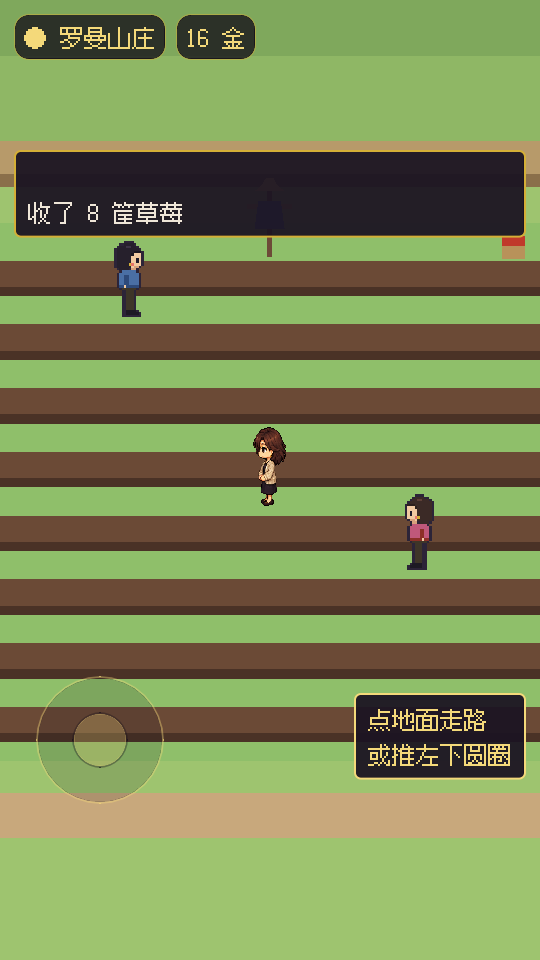
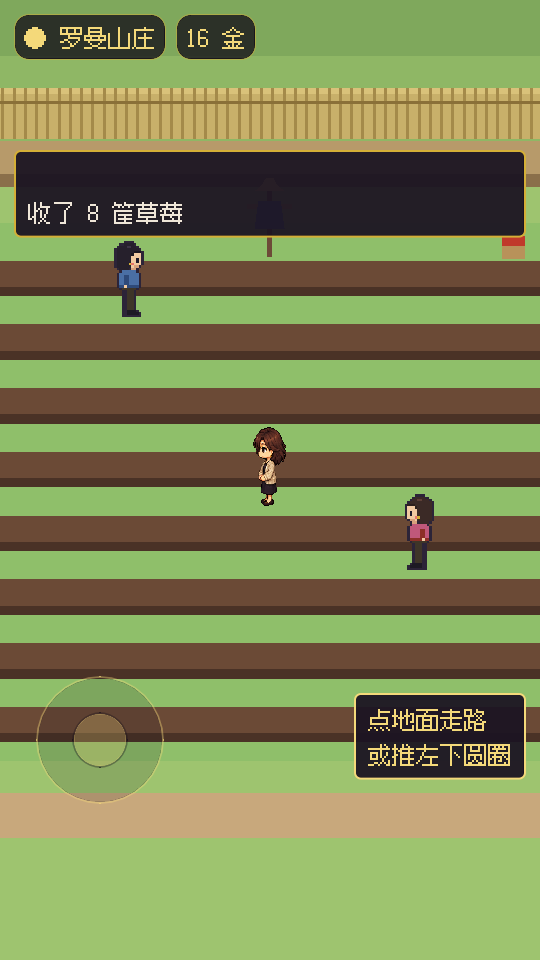
果园竹篱笆挪到能走地方北边界那条田埂（y 406～442）北边、着地线 404，不压路（01 E 10/3）；回执、截图、坐标跟着更新

Changed region(s): [[0.0, 0.0938, 1.0, 0.1562]]

diff --git a/godot/回执/展位-四块-1003/回执.md b/godot/回执/展位-四块-1003/回执.md
@@ -26,7 +26,7 @@
 - **农夫**：01 在 (250, 594)，02 在 (560, 866)，都站在垄沟里；03 在枇杷树下 (1110, 650)；04 在收购处摊子后面 (980, 1050)，摊子挡住下半身
 - **筐和篮**：收购处旁边一筐草莓 (1080, 1088)、一篮枇杷 (1110, 1088)；草莓地头 (660, 532)，枇杷地头 (1300, 562)
 - **稻草人 OR-P06** 在草莓地北头正中 (400, 530)
-- **竹篱笆 OR-W01**：沿北边 y 186～200 那条田埂摆，16 段，从 x 0 到 1536
+- **竹篱笆 OR-W01**：16 段，从 x 0 到 1536，着地线 404，紧贴能走地方北边界那条田埂（y 406～442）的北边，不压路，一看就知道走到头了（01 E 10/3 改）
 - **板车 OR-P07** 在篮子东边，x 1132～1228，着地线 1090
 
 ## 后厅三间（厨房归 GPT，没动；dress、lounge、mahjong、pot 四个点没动）
@@ -58,7 +58,7 @@
    - 钓鱼两组从 1100/1300 挪到 1170/1440，躲开垂柳 2、3 的树冠
    - 第二条长凳跟老长凳放在同一排，在 y 972
 4. **稻草人没放进草莓地中间**：垄是连着的，地里没有空地，放进垄沟会挡走路。现在放在地北头正中的地头上。
-5. **竹篱笆照「y 约 200」摆在 186～200 那条田埂上**。能走的地方的北边界是另一条田埂（y 406～442，原来的灰盒标签「田埂」就标在这条）。如果 01 说的是这条，告诉我，我把篱笆挪到 y 452。
+5. **竹篱笆**：先照「y 约 200」摆在远处那条田埂上，01 E 看过后改到能走地方北边界那条田埂（y 406～442）的北边，着地线 404。
 6. **礼服架没贴着西墙侧着放**：这个角度侧着看只剩一根细条，所以正面朝前，放在化妆室西边。
 7. **沙发拆成了坐垫和靠背两块**，长辈坐在中间，靠背挡住下半身，看到的是后脑勺。拼成一块的话，长辈会被整个盖住。
 8. **小孩**从 0.65 个大人高改成 0.63，就是 53 高。白椅子还是 46 高，照 ASSETS 表 chair_h；零件总表写的是 43。
